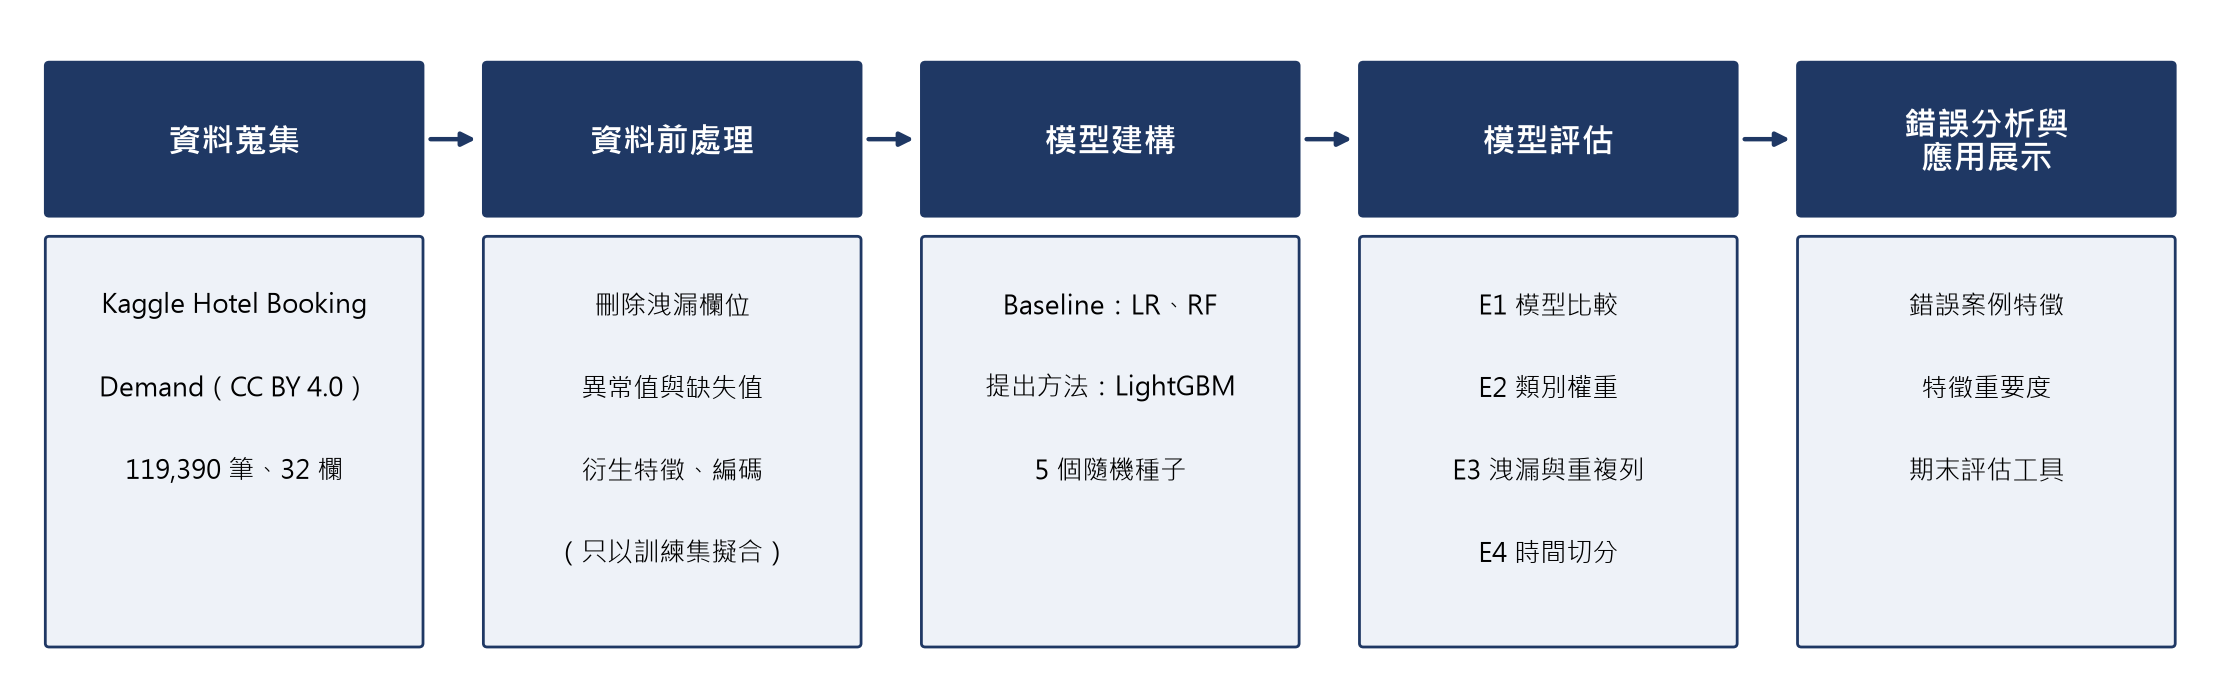
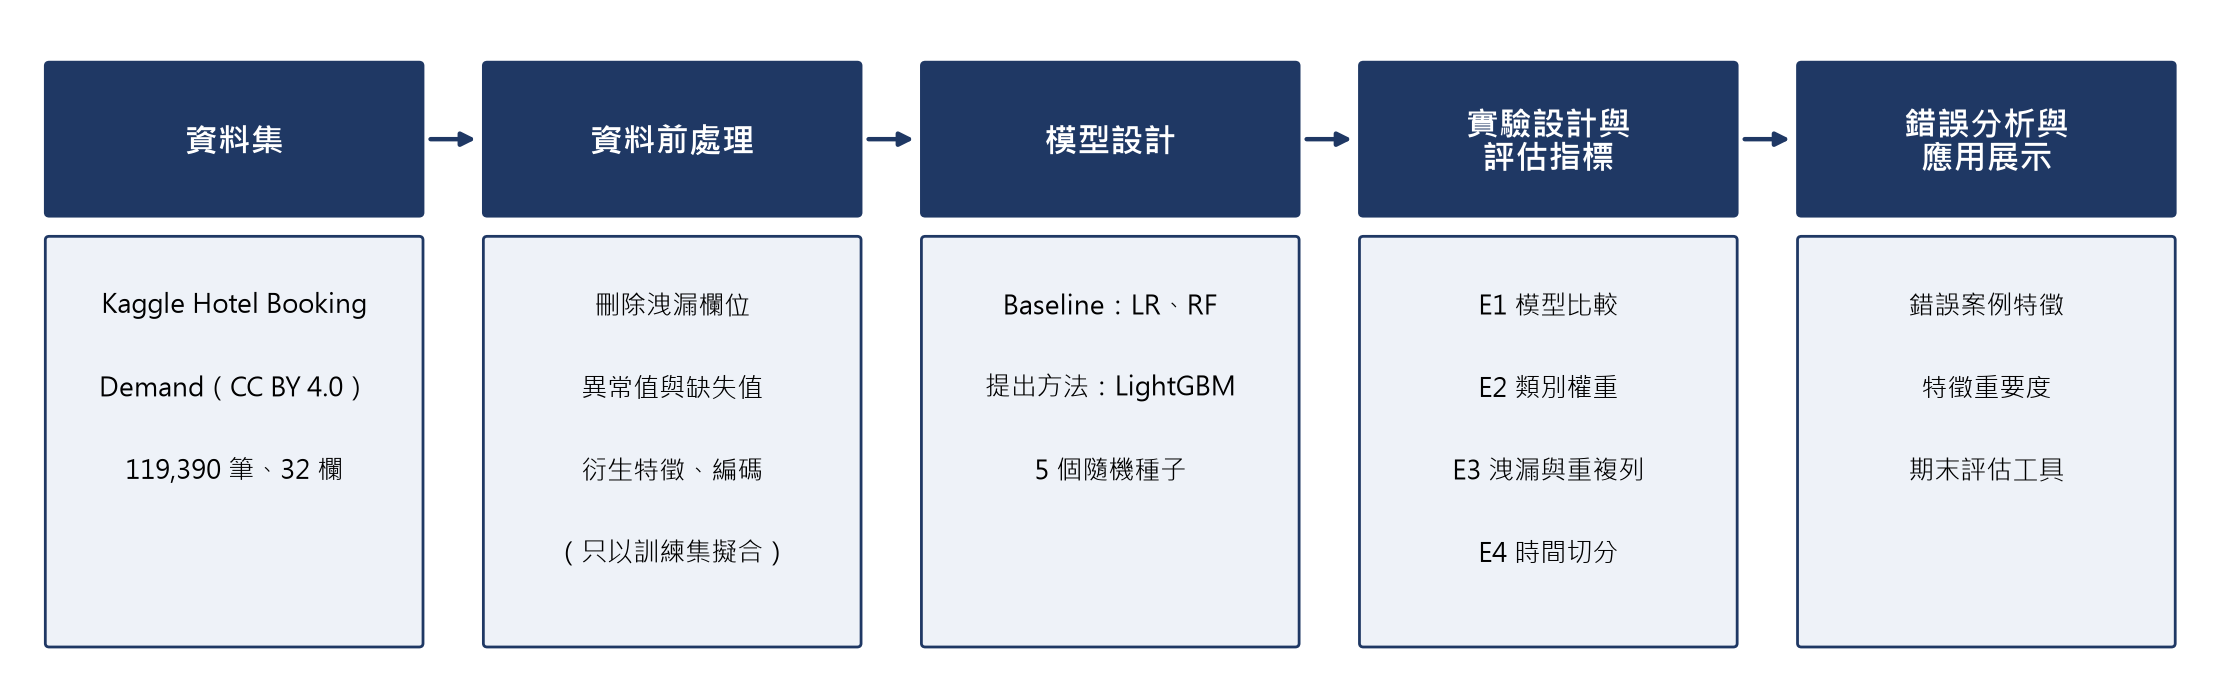
Add duplicate-group bootstrap, overlap and composition analysis

Changed region(s): [[0.6562, 0.15, 0.75, 0.24], [0.0625, 0.18, 0.1562, 0.24], [0.5, 0.18, 0.5312, 0.24]]

diff --git a/code/run_extra.py b/code/run_extra.py
@@ -97,13 +97,24 @@ def main():
     thr_time = vthr[vthr.split == "時間"].set_index("model").thr
 
     # ---- 4. bootstrap ----
-    rng = np.random.default_rng(42)
+    # 抽樣單位：單列（列獨立假設），以及「完全重複列群組」（同組列一起抽，較保守）
     B, n = 2000, len(yt)
+    dup_cols = [c for c in te.columns if c not in R.DUP_COLS_EXCLUDE]
+    gid = te.groupby(dup_cols, dropna=False, sort=False).ngroup().values
+    order = np.argsort(gid, kind="stable")
+    bounds = np.flatnonzero(np.diff(gid[order])) + 1
+    groups = np.split(order, bounds)
+    print(f"E4 test rows {n}, duplicate groups {len(groups)}")
     rows = []
-    for label, tl, tg in [("門檻 0.5", 0.5, 0.5), ("驗證集選門檻", thr_time["LightGBM"], thr_time["LogisticRegression"])]:
+    for unit in ["單列", "重複列群組"]:
+      rng = np.random.default_rng(42)
+      for label, tl, tg in [("門檻 0.5", 0.5, 0.5), ("驗證集選門檻", thr_time["LightGBM"], thr_time["LogisticRegression"])]:
         dF, dA = [], []
         for _ in range(B):
-            i = rng.integers(0, n, n)
+            if unit == "單列":
+                i = rng.integers(0, n, n)
+            else:
+                i = np.concatenate([groups[g] for g in rng.integers(0, len(groups), len(groups))])
             y = yt[i]
             dF.append(f1_score(y, (tp["LightGBM"][i] >= tl).astype(int)) -
                       f1_score(y, (tp["LogisticRegression"][i] >= tg).astype(int)))
@@ -112,7 +123,7 @@ def main():
             arr = np.array(arr)
             point = (f1_score(yt, (tp["LightGBM"] >= tl).astype(int)) - f1_score(yt, (tp["LogisticRegression"] >= tg).astype(int))
                      if met == "F1" else roc_auc_score(yt, tp["LightGBM"]) - roc_auc_score(yt, tp["LogisticRegression"]))
-            rows.append(dict(threshold=label, metric=met, diff_LGBM_minus_LR=point,
+            rows.append(dict(unit=unit, threshold=label, metric=met, diff_LGBM_minus_LR=point,
                              ci_low=np.percentile(arr, 2.5), ci_high=np.percentile(arr, 97.5), B=B))
     pd.DataFrame(rows).round(4).to_csv(OUT / "e4_bootstrap.csv", index=False)
 

diff --git a/code/run_overlap.py b/code/run_overlap.py
@@ -1,0 +1,35 @@
+"""補充分析（須在 run_experiments.py 之後執行）
+1. 隨機切分：依測試列在訓練集中是否有完全相同的列分成兩群，比較 LightGBM（未加權）F1（5 種子）
+2. 時間切分：訓練期與 2017 測試期的組成差異
+輸出：results/e3_overlap.csv、results/e4_composition.csv
+"""
+import numpy as np, pandas as pd
+from sklearn.metrics import f1_score
+import run_experiments as R
+
+df, _ = R.load_clean()
+cols = [c for c in df.columns if c not in R.DUP_COLS_EXCLUDE]
+key = pd.util.hash_pandas_object(df[cols], index=False)
+rows = []
+for s in R.SEEDS:
+    tr, va, te = R.random_split(df, s)
+    p = np.load(R.OUT / "preds" / f"rand_LightGBM_bal0_s{s}_test.npy")
+    inter = key.loc[te.index].isin(set(key.loc[tr.index])).values
+    y = te[R.TARGET].values
+    for name, m in [("訓練集有完全相同列", inter), ("訓練集無相同列", ~inter)]:
+        rows.append(dict(seed=s, group=name, n=int(m.sum()), cancel_rate=y[m].mean(),
+                         f1=f1_score(y[m], (p[m] >= 0.5).astype(int))))
+o = pd.DataFrame(rows)
+o.to_csv(R.OUT / "e3_overlap_per_seed.csv", index=False)
+o.groupby("group")[["n", "cancel_rate", "f1"]].agg(["mean", "std"]).round(4).to_csv(R.OUT / "e3_overlap.csv")
+print(o.groupby("group")[["n", "cancel_rate", "f1"]].agg(["mean", "std"]).round(4))
+
+tr = df[df.arrival_date < "2016-10-01"]; te = df[df.arrival_date >= "2017-01-01"]
+comp = []
+for name, d in [("訓練期 2015-07～2016-09", tr), ("測試期 2017-01～2017-08", te)]:
+    nd = d[d.deposit_type == "No Deposit"]
+    comp.append(dict(period=name, n=len(d), cancel_rate=d[R.TARGET].mean(),
+                     non_refund_share=(d.deposit_type == "Non Refund").mean(),
+                     online_ta_share=(d.market_segment == "Online TA").mean(),
+                     no_deposit_cancel_rate=nd[R.TARGET].mean()))
+c = pd.DataFrame(comp).round(4); c.to_csv(R.OUT / "e4_composition.csv", index=False); print(c.to_string())

diff --git a/code/make_framework_fig.py b/code/make_framework_fig.py
@@ -5,10 +5,10 @@ import matplotlib.pyplot as plt
 from matplotlib.patches import FancyBboxPatch
 plt.rcParams["font.sans-serif"] = ["Microsoft JhengHei", "Noto Sans CJK TC", "Noto Sans CJK JP", "DejaVu Sans"]
 boxes = [
-    ("資料蒐集", ["Kaggle Hotel Booking", "Demand（CC BY 4.0）", "119,390 筆、32 欄"]),
+    ("資料集", ["Kaggle Hotel Booking", "Demand（CC BY 4.0）", "119,390 筆、32 欄"]),
     ("資料前處理", ["刪除洩漏欄位", "異常值與缺失值", "衍生特徵、編碼", "（只以訓練集擬合）"]),
-    ("模型建構", ["Baseline：LR、RF", "提出方法：LightGBM", "5 個隨機種子"]),
-    ("模型評估", ["E1 模型比較", "E2 類別權重", "E3 洩漏與重複列", "E4 時間切分"]),
+    ("模型設計", ["Baseline：LR、RF", "提出方法：LightGBM", "5 個隨機種子"]),
+    ("實驗設計與\n評估指標", ["E1 模型比較", "E2 類別權重", "E3 洩漏與重複列", "E4 時間切分"]),
     ("錯誤分析與\n應用展示", ["錯誤案例特徵", "特徵重要度", "期末評估工具"]),
 ]
 fig, ax = plt.subplots(figsize=(11.3, 3.6), dpi=200)
